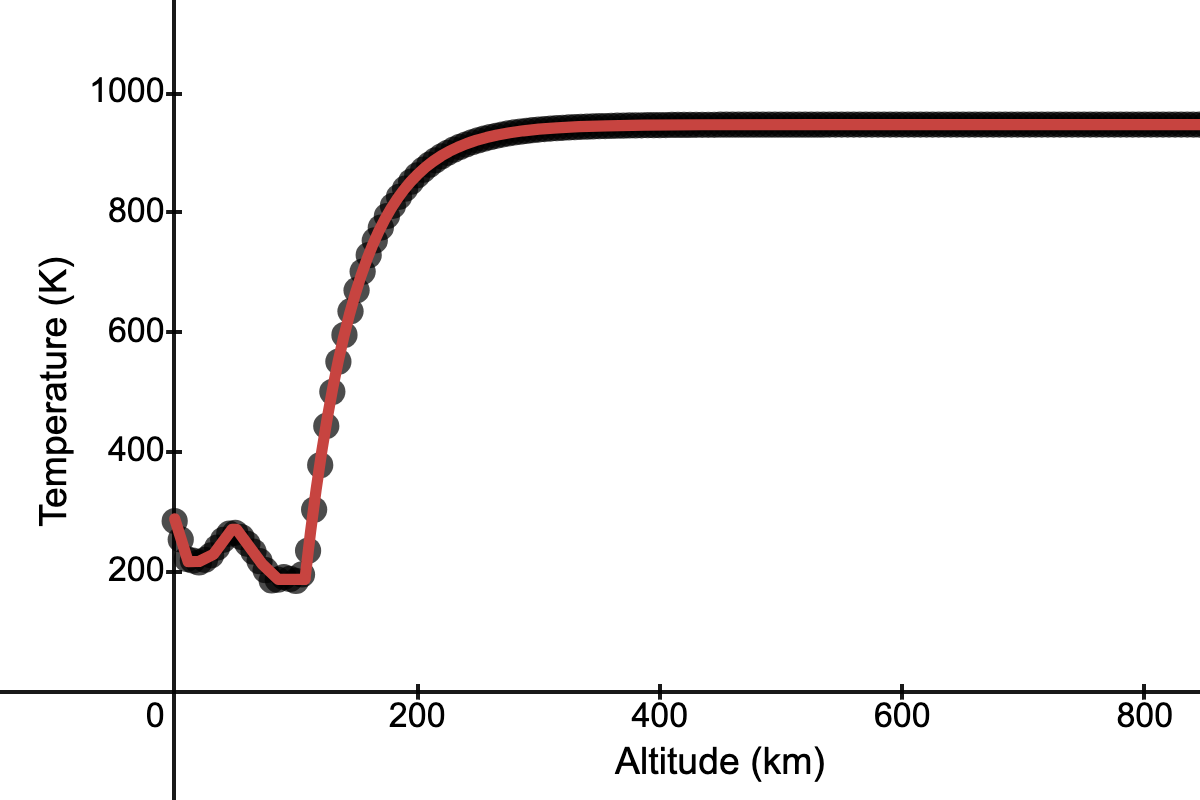
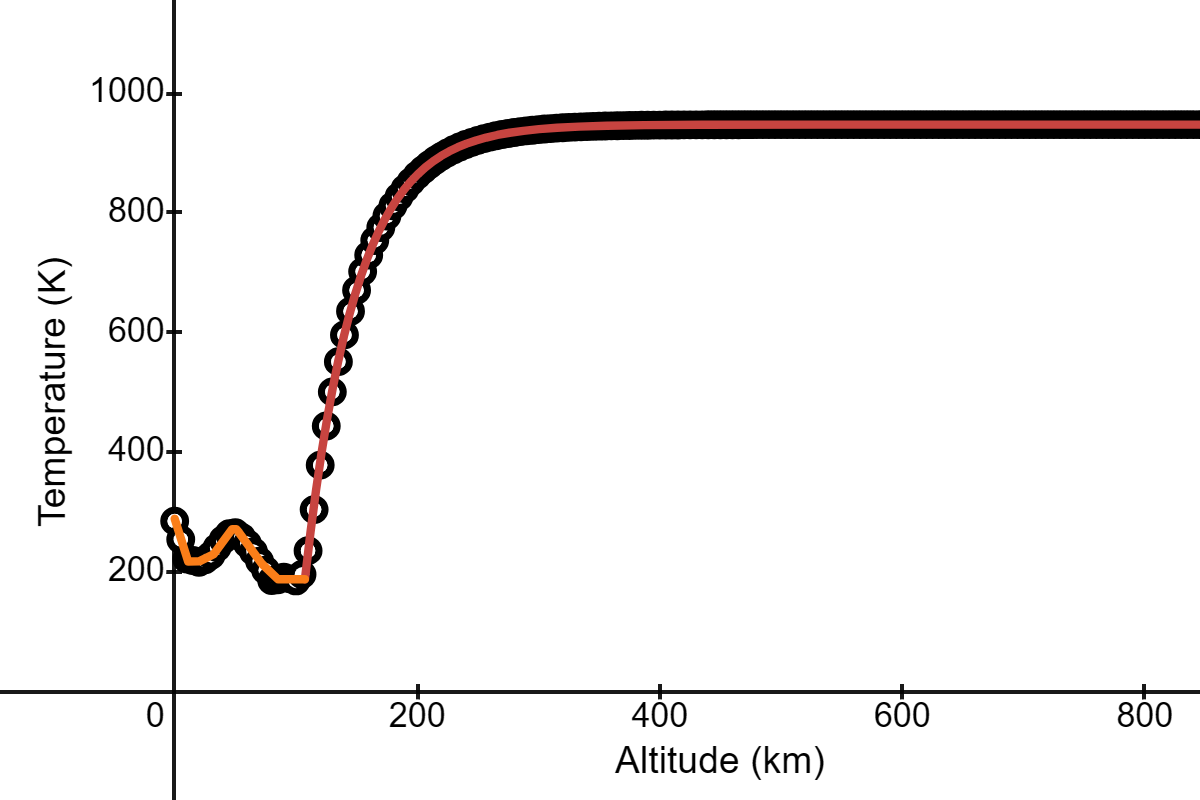
up pressure

diff --git a/modelling/physics/pressure_theoretical_model.md b/modelling/physics/pressure_theoretical_model.md
@@ -51,9 +51,9 @@ I did this project in Desmos back in 2021. For some reason, I've always been obs
 
 # Introduction
 
-The atmosphere is a mass of air that is gravitationally bound to a planet. On Earth, phenomena as solar irradiation, water evaporation, precipitations, turbulent convective motion, Coriolis force, photochemical reactions, and many more, all contribute to the formation of a chaotic and extremely complex system that makes the modelling of the atmosphere not a trivial task. While we will try to be as _ab initio_ as possible, many of such factors cannot be easily modelled, and need to be implemented through the use empirical data. For example, to derive a mathematical expression for the atmospheric temperature at any given altitude is way too complex to be worth trying, and that is where measurements come to aid us. 
+The atmosphere is a mass of air that is gravitationally bound to a planet. On Earth, phenomena as solar irradiation, water evaporation, precipitations, turbulent convective motion, Coriolis force, photochemical reactions, and many more, all contribute to the formation of a chaotic and out-of-equilibrium system that makes the modelling of the atmosphere a complex task. While we will try to be as _ab initio_ as possible, many of such factors cannot be easily modelled, and need to be implemented through the use empirical data. For example, to derive a mathematical expression for the atmospheric temperature at any given altitude is way too complex to be worth trying, and that is where measurements come to aid us. 
 
-Here, we will model a fictitious atmosphere at equilibrium, where no net mass flux (wind) exists at any point of space. This simplification implies that our atmosphere is static and thus cannot simulate real world dynamics, nor predict the weather. Nonetheless, our model will prove to be extremely robust, at the cost of closing an eye and manually tune some of the empirical parameters.
+Here, we will model a fictitious atmosphere at equilibrium, where no net mass flux (wind) exists at any point of space. This gross simplification implies that our atmosphere is static and thus cannot simulate the real world dynamics, nor predict the weather. Nonetheless, our model will prove to be extremely robust, at the cost of closing an eye and manually tune some of the empirical parameters.
 
 In the following section we will develop the theoretical model of Earth's atmosphere as accurately as we can be. Then, we will implement our final model in python and validate it by calculating known data, such as the total atmospheric mass. Finally, in the fourth section we will make use of measurements to more accurately model atmospheric conditions at any given time and position on Earth. 
 
@@ -315,7 +315,7 @@ We can define a function that calculates the pressure in dry air, and compare it
 
 ```{code-cell} ipython
 def pressure_barometric(h):
-    pressure = p0 * np.exp(-m_dry * g0 * h / (R * T0))
+    pressure = p0 * np.exp(-m_dry * g0 * h * 1000 / (R * T0))
 
     return pressure
 
@@ -341,8 +341,10 @@ ax1.set_xlabel("Altitude (km)")
 ax1.set_ylabel("Pressure (hPa)")
 ax2.set_ylabel("Pressure difference (hPa)")
 ax1.set_xlim(0,60)
-ax1.legend()
-ax2.legend(loc=7)
+ax1.set_ylim(0)
+ax2.set_ylim(0)
+ax1.legend(loc=(0.55,0.60))
+ax2.legend(loc=(0.55,0.40))
 plt.show()
 ```
 
@@ -407,7 +409,7 @@ $$
 p_{vap,w}(T) = a \exp\bigg[\dfrac{bT}{T+c}\bigg]
 $$(tetens)
 
-For T in °C and pressure in Pa, the parameters are $a=610.78$, and b=17.27,c=237.3$ above 0°C (liquid-gas interphase) whereas b=21.875,c=265.5$ below 0°C (solid-gas interphase). 
+For T in °C and pressure in Pa, the parameters are $a=610.78$, and $b=17.27,c=237.3$ above 0°C (liquid-gas interphase) whereas $b=21.875,c=265.5$ below 0°C (solid-gas interphase). 
 
 ```{code-cell} ipython
 def vapor_pressure(T):
@@ -428,14 +430,15 @@ def vapor_pressure(T):
 
 ```{code-cell} ipython
 :tags: ["hide-input"]
-T_array = np.linspace(0, 100, 100)  # Temperature range from 0 to 100 °C
+T_array = np.linspace(-50, 100, 100)  # Temperature range from 0 to 100 °C
 vapor_pressure_array = np.array([vapor_pressure(T+273.15)/100 for T in T_array])
 p0_array = [p0/100 for T in T_array]
 
 plt.figure(figsize=(7, 3))
 plt.plot(T_array, vapor_pressure_array, color="darkblue",lw=2,label=r'$p_{vap,w}$')
 plt.plot(T_array, p0_array,linestyle='dashed',color="k",lw=2,label=r'$p\!^\circ$')
-plt.xlim(0,100)
+plt.xlim(-50,100)
+plt.yscale('log')
 plt.xlabel("Temperature (°C)")
 plt.ylabel("Pressure (hPa)")
 plt.legend()
@@ -522,12 +525,12 @@ and it makes sense that $f_{H_2O}$ never exceeds 5\% on Earth. Taking the temper
 
 ```{code-cell} ipython
 :tags: ["hide-input"]
-altitudes = np.linspace(0, 11, 25)     # altitude array in km
+altitudes = np.linspace(0, 11, 20)     # altitude array in km
 f_water_RHs = [[water_molar_fraction(RH=RH,h=alt)*100 for alt in altitudes] for RH in RHs]
 plt.figure(figsize=(7, 3))
 for idx,RH in enumerate(RHs):
     plt.plot(altitudes, f_water_RHs[:][idx],lw=2,label=f'RH = {int(100*RH)}%',color=colors[len(RHs)-idx-1])
-plt.xlim(0,15)
+plt.xlim(0,11)
 plt.xlabel("Altitude (km)")
 plt.ylabel("Water vapor molar fraction (%)")
 plt.legend()
@@ -625,10 +628,10 @@ Let's compare the two mass fraction, and see how they change with altitude. Sinc
 
 ```{code-cell} ipython
 :tags: ["hide-input"]
-pressure_dry_arr2 = np.array([pressure_dry(alt) for alt in altitudes])   
+pressure_dry_arr = np.array([pressure_dry(alt) for alt in altitudes])   
 temperatures = np.array([ISA_temperature(alt) for alt in altitudes])
 water_vapor_mass_perc = np.array([m_water/m_dry * water_molar_fraction(RH=1.0,h=alt)*100 for alt in altitudes])
-air_specific_mass = m_dry/R * np.divide(pressure_dry_arr2,temperatures)
+air_specific_mass = m_dry/R * np.divide(pressure_dry_arr,temperatures)
 min_LWC = 0.03*1E-3/air_specific_mass * 100   # M_water / M_dry * 100 to make %
 max_LWC = 0.45*1E-3/air_specific_mass * 100
 min_cum = 1.0*1E-3/air_specific_mass * 100
@@ -646,12 +649,12 @@ plt.show()
 
 We thus learn that, when no cumulonimbus are around, the amount of water vapor exceeds that of liquid water in clouds up to 7-8 km above ground. Upwards, the low temperatures reduce the vapor pressure of water and liquid water becomes more abundant if clouds are present. However, at very high altitudes the typical clouds are the low-density cirrus, carrying a negligible amount of 0.03 g/m{sup}`3` of liquid water. The water-rich cumulonimbus cloudsm instead, contains much more liquid water, that it surpasses the mass of water vapor from 4 km of altitude. And this may be the reason why cumulonimbus are associated with such heavy rains and thunderstorms. 
 
-Due to the very small amount of water that clouds typically carry, and the technical difficulty in modelling them (which clouds are present? At what altitudes? What density to they have?), we choose not to include cloud water content in our model. This is safe in most cases, but please do not use this model during a thunderstorm!
+Due to the very small amount of water that clouds typically carry, and the technical difficulty in modelling them (which types of cloud are present? At what altitudes? What density to they have?), we choose not to include cloud water content in our model. This is safe in most cases, but please do not use this model during a thunderstorm!
 
 
 ## Earth as a spinning spheroid
 
-Let's now further improve our model by considering Earth as a spheroid (or ellipsoid) that spins and generates a gravitational field. Our description will then depend not only on altitude $h$, but also on the geographic latitude $\varphi$ (distinct from $\phi$ for relative humidity).
+Let's now further improve our model by considering Earth as a spheroid (or ellipsoid) that spins and generates a gravitational field. .
 
 ### Gravity with altitude
 
@@ -672,7 +675,7 @@ where we used the power series. We call the term $\left(1+h/R\right)^{-2}$ the a
 
 ### Reference ellipsoid
 
-We now more accurately account for Earth's shape. We will use the World Geodetic System 1984 (WGS 84), which is used by the GPS system and suggested by the <wiki:International_Civil_Aviation_Organization>. 
+We now more accurately account for Earth's shape. Our description will then also include the geographic latitude $\varphi$ (distinct from $\phi$ for relative humidity). We will use the World Geodetic System 1984 (WGS 84), which is used by the GPS system and suggested by the <wiki:International_Civil_Aviation_Organization>. 
 
 :::{note}
 
@@ -764,7 +767,7 @@ def g_WGS84_altitude(h,latitude):
 
 ```{code-cell} ipython
 :tags: ["hide-input"]
-altitudes = np.linspace(0, 800, 50)
+altitudes = np.linspace(0, 400, 40)
 fig, ax = plt.subplots(figsize=(7, 3))
 gravity_eq = [g_WGS84_altitude(alt,0) for alt in altitudes]
 gravity_pol = [g_WGS84_altitude(alt,90) for alt in altitudes]
@@ -784,18 +787,18 @@ The thermosphere is the outer layer of the atmosphere, above 80 km of altitude. 
 
 ### Temperature of the thermosphere
 
-The ISA model does not include the thermosphere, but reaches a maximum altitude of 86 km, where the temperature is 186.946 K. The data for the thermosphere is provided by the [NRLMSIS empirical model](https://swx-trec.com/msis/). The temperature profile of the two models combined is shown in [](#fig:thermo-T-altitude), where I extended the constant temperature of the stratopause (186.946 K) up to 107.41 km, and used an exponential regression upward (see red line). The empirical fitting gives the function:
+The ISA model does not include the thermosphere, but reaches a maximum altitude of 86 km, where the temperature is 186.946 K. The data for the thermosphere is provided by the [NRLMSIS empirical model](https://swx-trec.com/msis/). The temperature profile of the two models combined is shown in [](#fig:thermo-T-altitude), where I extended the constant temperature of the stratopause (186.946 K) up to 107.41 km, and used an exponential regression againsts the NRLMSIS data (see red line). The empirical fitting gives the function:
 
 $$
 T(h) =  -9799 e^{-0.0238x} + 947.23, \quad 107.41\,\mathrm{km} \le h \le 1000 \,\mathrm{km}
-$$
+$$(eq:thermo_fitting)
 
 :::{figure} ../../images/thermosphere_T_h.png
 :label: fig:thermo-T-altitude
 :align: center
 :w: 400px
 
-Temperature profile with altitude (black dots). The red line is the union between the ISA model (below 86 km), and my fitting. Data from the [NRLMSIS empirical model](https://swx-trec.com/msis/) at 2024-05-01 00:00 UTC over 0°N 50°E. Graph from my [Desmos](https://www.desmos.com/calculator/pnt2qmypuf).
+Temperature profile with altitude (hollow black dots). The orange line are the temperatures from the ISA model (below 107.41 km), while the red line is my fitting (eqaution {eq}`eq:thermo_fitting`). Data from the [NRLMSIS empirical model](https://swx-trec.com/msis/) at 2024-05-01 00:00 UTC over 0°N 50°E. Graph from my [Desmos](https://www.desmos.com/calculator/pnt2qmypuf).
 
 :::
 
@@ -945,9 +948,10 @@ def pressure_moist(h,RH,chi):
 
 ```{code-cell} ipython
 :tags: ["hide-input"]
-altitudes = np.linspace(0, 85, 50)
+altitudes = np.linspace(0, 35, 35)
 chi = calc_chi(RH)
 pressure_moist_arr = np.array([pressure_moist(alt,1.0,chi)/100 for alt in altitudes])   # divided by 100 to return hPa
+pressure_dry_arr = np.array([pressure_dry(alt)/100 for alt in altitudes])
 diff_moist_dry = pressure_moist_arr - pressure_dry_arr
 fig, ax1 = plt.subplots(figsize=(7, 3))
 ax2 = ax1.twinx()
